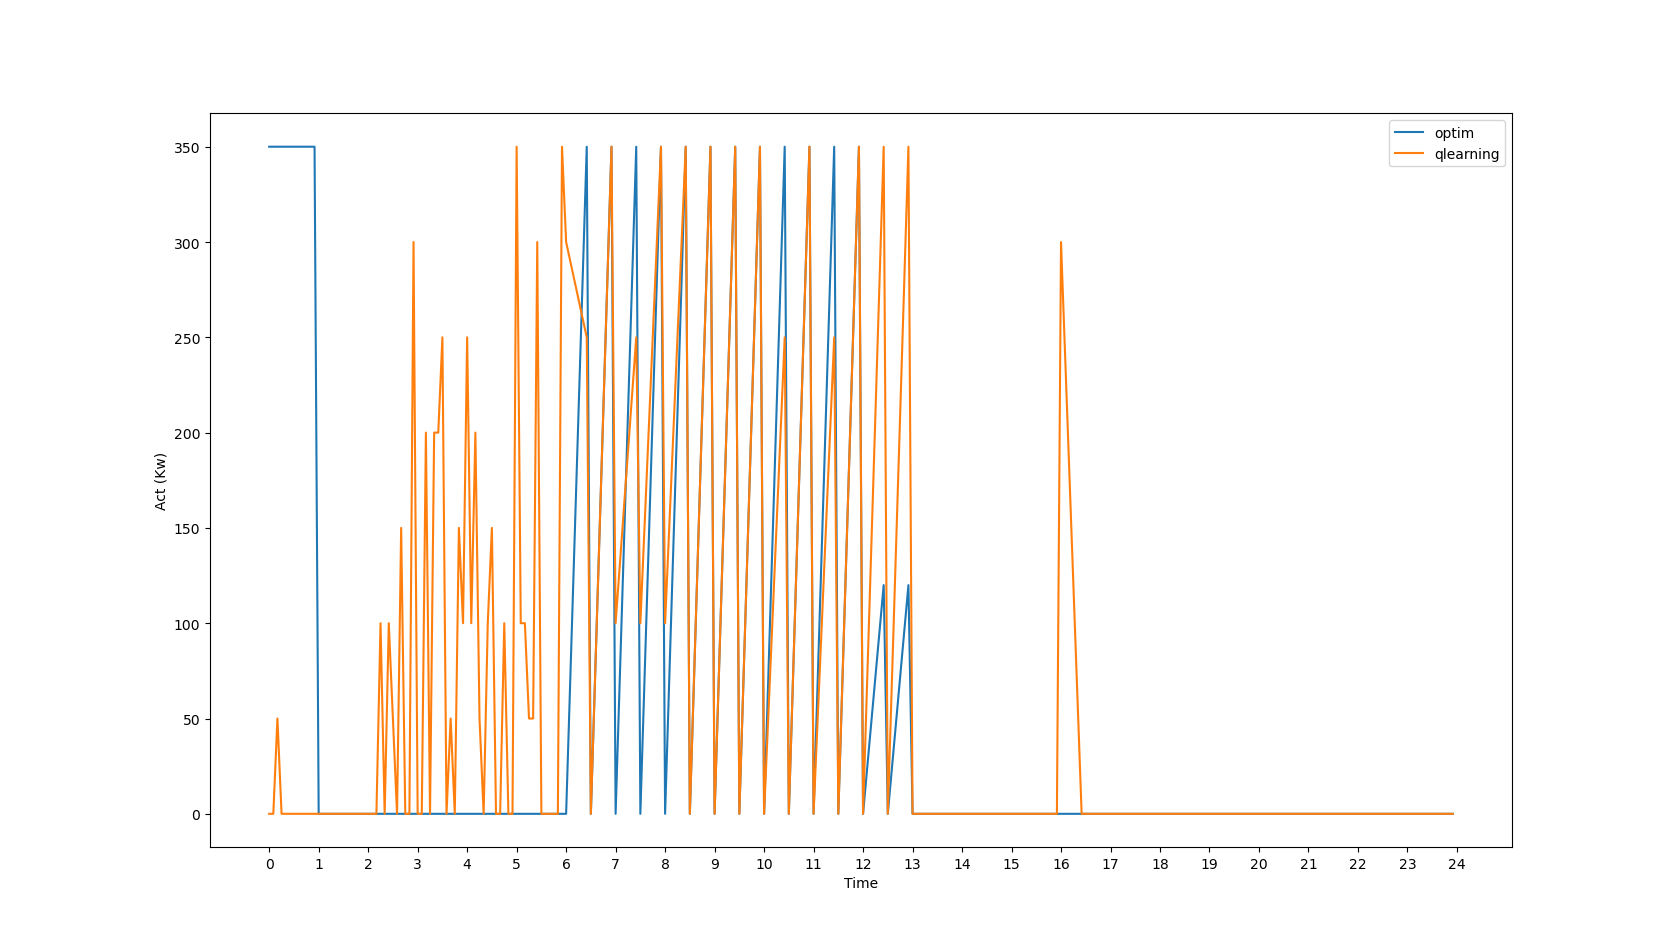
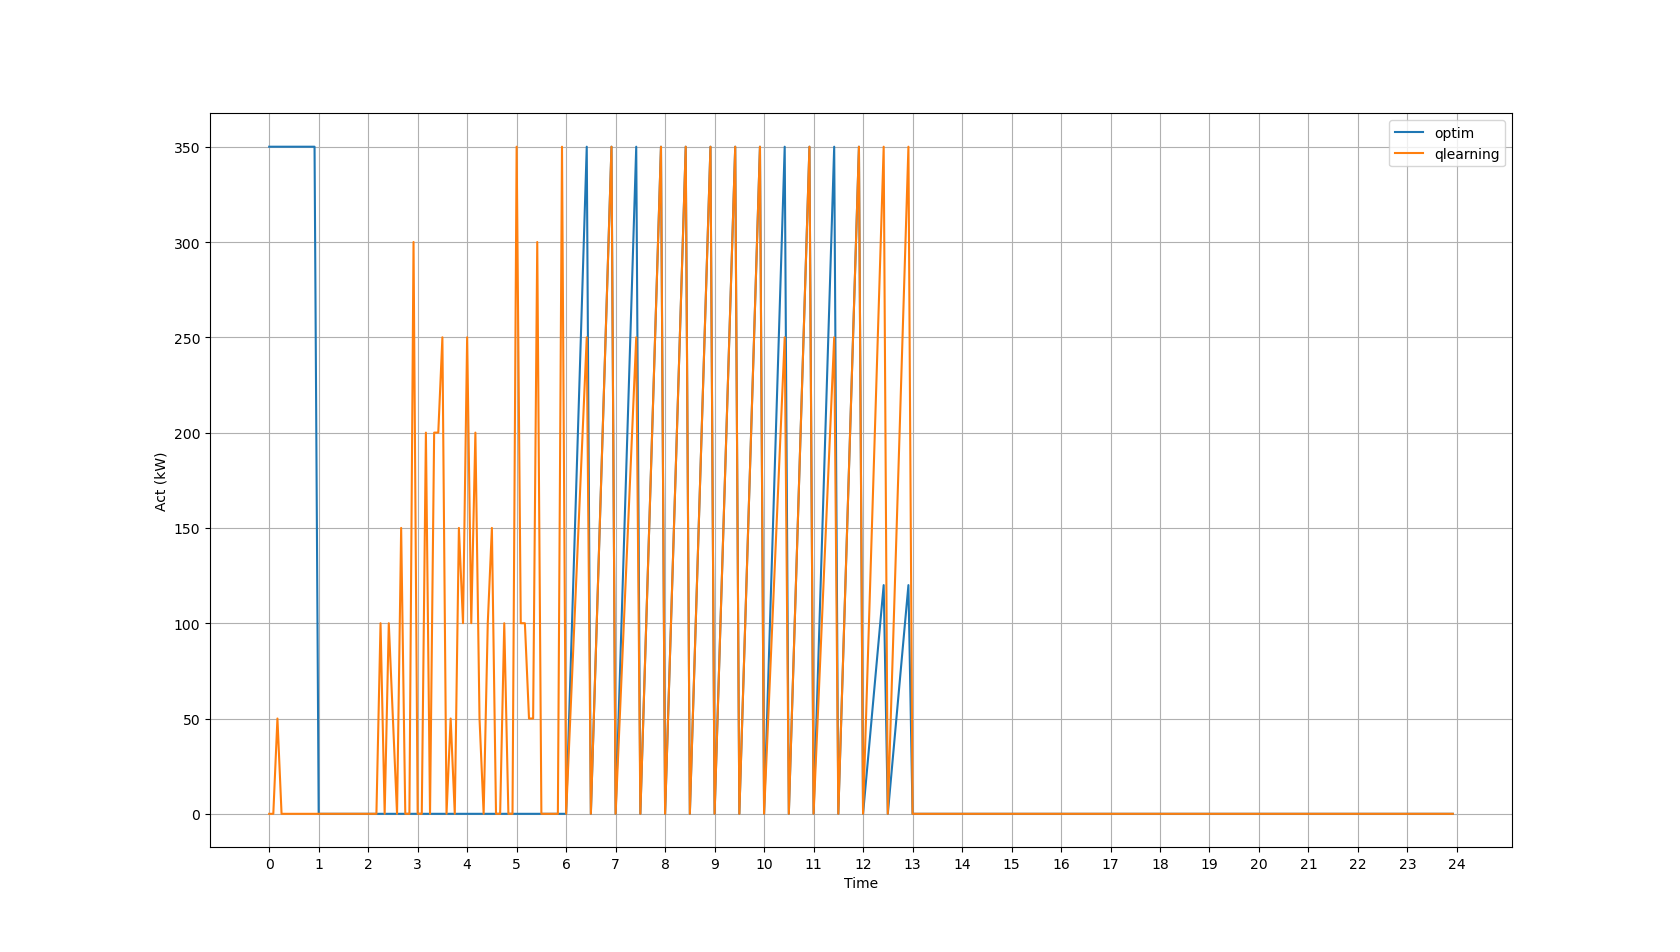
refactory the record methods

Changed region(s): [[0.3095, 0.2132, 0.4333, 0.8529], [0.619, 0.3046, 0.65, 0.8529], [0.3095, 0.2437, 0.3405, 0.2742]]

diff --git a/simulator/env.py b/simulator/env.py
@@ -6,6 +6,7 @@ from collections import namedtuple
 class Env:
 
     State = namedtuple('State', ["Time", "soc", "max_soc", "soc_for_one_trip"])
+    Record = namedtuple('Record', ['time', 'soc', 'act'])
 
     def __init__(self):
         self._ev = EV()
@@ -22,19 +23,27 @@ class Env:
         return self._state(), self._info
 
     def step(self, act):
+        #record before act
+        rec = {}
+        rec['time'] = Timer.get_time_step()
+        rec['soc'] = self._ev.soc
+
+        #run with act
         if Timer.is_trip_started() and self._ev.is_soc_sufficient_for_one_trip():
             self._ev.add_soc(0)
+            rec['act'] = 0
             reward = self._reward_model.feedback(self._ev, True)
             self._num_success_trips += 1
             self._ev.consume_soc_for_one_trip()
             Timer.set_time_step(Timer.get_time_step() + Timer.get_operation_duration())
         else:
             self._ev.add_soc(act)
+            rec['act'] = act
             reward = self._reward_model.feedback(self._ev)
             Timer.tick_time_step()
 
         self._total_reward += reward
-
+        self._info['rec'] = Env.Record(**rec)
         if Timer.is_end_time():
             done = True
         else:

diff --git a/algorithms/agent.py b/algorithms/agent.py
@@ -17,6 +17,16 @@ class Generic_Agent(ABC):
     def select_act(self, state, ep):
         raise NotImplementedError("select_act must be implemented in subclasses")
 
+    def record(self, info):
+        rec = info['rec']
+        time = rec.time
+        soc = rec.soc
+        act = rec.act
+
+        self.soc_tracker.append((time, soc))
+        self.act_tracker.append((time, act))
+
+
     @staticmethod
     def plot_strategy(**kwargs):
         for sol_name, sol_obj in kwargs.items():
@@ -27,7 +37,7 @@ class Generic_Agent(ABC):
         plt.xticks(xticks, xticks_label)
         plt.yticks(sol_obj.acts, sol_obj.acts)
         plt.xlabel("Time")
-        plt.ylabel("Act (Kw)")
+        plt.ylabel("Act (kW)")
         plt.legend()
         plt.grid(True)
         plt.show()

diff --git a/runs/run_ql.py b/runs/run_ql.py
@@ -15,13 +15,15 @@ def run_ql():
         done = False
         while not done:
             act = agent.select_act(state, ep)
-            next_state, reward, done, _ = env.step(act)
+            next_state, reward, done, info = env.step(act)
             exp["state"] = state
             exp["next_state"] = next_state
             exp["reward"] = reward
             exp["act"] = act
             agent.learn(exp)
             state = next_state
+            if ep==TOTAL_EPISODE-1:
+                agent.record(info)
         print("The episode: ", ep)
         env.show_performace_metrics()
         print("\n")

diff --git a/algorithms/ql.py b/algorithms/ql.py
@@ -3,7 +3,6 @@ import numpy as np
 import random
 import math
 from algorithms.agent import Generic_Agent
-from simulator.time import Timer
 
 ALPHA = 0.1
 GAMMA = 0.99
@@ -27,9 +26,6 @@ class QL_Agent(Generic_Agent):
             act = self.acts[act_idx]
         else:
             act = random.choice(self.acts)
-        if ep == 69999:
-            self.soc_tracker.append((Timer.get_time_step(), state.soc))
-            self.act_tracker.append((Timer.get_time_step(), act))
         return act
 
     def learn(self, exp):

diff --git a/runs/run_optim.py b/runs/run_optim.py
@@ -7,8 +7,9 @@ def run_optim():
     agent = Optim_Agent()
     while True:
         act = agent.select_act(state, None)
-        next_state, reward, terminate, _ = env.step(act)
+        next_state, reward, terminate, info = env.step(act)
         state = next_state
+        agent.record(info)
         if terminate:
             break
     env.show_performace_metrics()

diff --git a/runs/run_rand.py b/runs/run_rand.py
@@ -8,8 +8,9 @@ def run_rand():
     state, _ = env.reset()
     while True:
         act = agent.select_act(state, None)
-        next_state, reward, terminate, _ = env.step(act)
+        next_state, reward, terminate, info = env.step(act)
         state = next_state
+        agent.record(info)
         if terminate:
             break
     env.show_performace_metrics()

diff --git a/algorithms/rand.py b/algorithms/rand.py
@@ -8,6 +8,4 @@ class Rand_Agent(Generic_Agent):
             act = 0
         else:
             act = random.choice(self.acts)
-        self.soc_tracker.append((Timer.get_time_step(), state.soc))
-        self.act_tracker.append((Timer.get_time_step(), act))
         return act

diff --git a/algorithms/optim.py b/algorithms/optim.py
@@ -14,6 +14,4 @@ class Optim_Agent(Generic_Agent):
                 act = 120
             else:
                 act = 0
-        self.soc_tracker.append((Timer.get_time_step(), state.soc))
-        self.act_tracker.append((Timer.get_time_step(), act))
         return act
